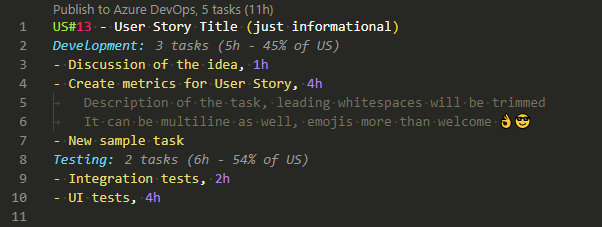
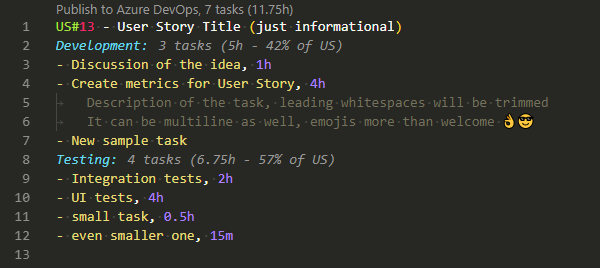
Update README and CHANGELOG to include new features

diff --git a/README.md b/README.md
@@ -30,7 +30,7 @@ Then it's time to enter some tasks in the following manner:
 
 > Tip: tasks don't necesarilly have to be prepended with a hyphen but it makes it look better
 
-The image should be pretty self-explanatory I hope. The numbers following the tasks are estimations. They will be filled in both **Original** and **Remaining Estimation** field in Azure DevOps.
+The image should be pretty self-explanatory I hope. The numbers following the tasks are estimations. They will be filled in both **Original** and **Remaining Estimation** field in Azure DevOps. As you can see it can be specified in both hours (up to 2 decimal places) and minutes (integer).
 
 At this point there is a Code Lens action above the user story that lets you publish the changes. Check it out. In case of something is not working just open Output panel and pick `Azure DevOps planner` channel to see what might be wrong. If it's not obvious just raise an issue.
 
@@ -44,9 +44,27 @@ This extension contributes the following settings:
 * `planner.azure-devops.token`: Authentication token (https://docs.microsoft.com/en-us/azure/devops/organizations/accounts/use-personal-access-tokens-to-authenticate?view=azure-devops)
 * `planner.azure-devops.debug`: whether to turn debug logging on or off
 * `planner.azure-devops.default.activity`: default Activity used when none is provided for the task (default: Development)
+* `planner.azure-devops.snippets`: custom tasks snippets that can be used (see [Task snippets](#task-snippets))
 
 To change the settings please use `Preferences: Open User Settings` command (or `Workspace Settings` if you like to use different Azure DevOps accounts per workspace). This is by default bound to `Ctrl+,`.
 In the settings expand `Extensions` section and look for this extension's settings.
+
+### Task snippets
+
+It's often the case that some tasks repeat among all or almost all user stories. There is no need to type them all manually every time. It's a tedious task and should be automated. For instance we have automated tests. Additionally we do so called triangle meetings (BA/DEV/TEST) before starting the story to make sure we understand it correctly and also a short test pyramid meeting to preselect which tests go where (unit, integration, ui).
+Given that activities we have 6 common tasks (actually it's even more but you get the point) that we should add to every single User Story on planning session. We never liked adding that manually.
+
+Let's handle this like a pro! Go to settings file (UI doesn't provide option to define this yet) so `Preferences: Open Settings (JSON)` command. Then just add a new setting called `planner.azure-devops.snippets` which is a map of snippets:
+
+![snippets](images/snippets-config.png)
+
+> Note: it can be either a local file or HTTP(S) direct link to a file
+
+It will be read only once when activating the extension (usually first time you open a `planner` file) and then cached. From now on you can simply use names of those snippets as snippets in the editor like this:
+
+![snippets](images/snippets.gif)
+
+Isn't it better than you used to do it?
 
 ## Complementary extensions
 
@@ -61,5 +79,5 @@ VSCode allows you to bind any commands to a key so I bound increment/decrement t
 
 - ~~ability to define arbitrary activity type (hardcoded to 'Development' now)~~
 - option for partial update (take already published tasks into account)
-- snippets for "taxes" tasks (common tasks among many user stories, eg. unit tests)
+- ~~snippets for "taxes" tasks (common tasks among many user stories, eg. unit tests)~~
 - want more? open an issue or PR

diff --git a/CHANGELOG.md b/CHANGELOG.md
@@ -6,6 +6,9 @@ Check [Keep a Changelog](http://keepachangelog.com/) for recommendations on how 
 ## [0.2.0]
 ### Added
 - Activity type decoration (number of tasks and hours per activity)
+- Support for task snippets loaded from disk or HTTP
+### Changed
+- Support decimal numbers in estimation or estimation in minutes
 
 ## [0.1.0]
 ### Added
